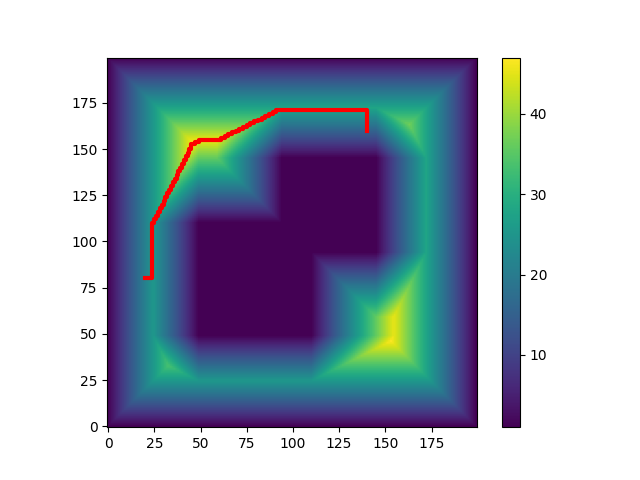
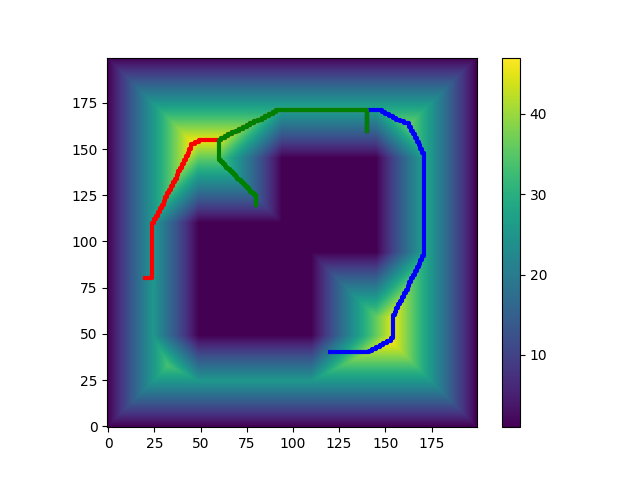
updated example4 to show paths for three start points, not just one

diff --git a/scripts/brushfire.py b/scripts/brushfire.py
@@ -343,35 +343,59 @@ class BrushfireGrid:
         _, path = self.calculate_paths(start, goal)
         return path
 
+    def _plot_pixel_paths(self, start: np.ndarray, goal: np.ndarray, ax):
+        if start.shape[0] > 1:
+            colors = ['r', 'b', 'g', 'm']
+            for i, start_ in enumerate(start):
+                path = self.calculate_pixel_path(start_, goal)
+                c = i % len(colors)
+                ax.plot(path[:, 0], path[:, 1], color=colors[c], lw=3)
+        else:
+            path = self.calculate_pixel_path(start, goal)
+            ax.plot(path[:, 0], path[:, 1], '-r', lw=3)
+
+    def _plot_real_paths(self, start: np.ndarray, goal: np.ndarray, ax):
+        if start.shape[0] > 1:
+            colors = ['r', 'b', 'g', 'm']
+            for i, start_ in enumerate(start):
+                path = self.calculate_real_path(start_, goal)
+                c = i % len(colors)
+                ax.plot(path[:, 0], path[:, 1], color=colors[c], lw=3)
+        else:
+            path = self.calculate_pixel_path(start, goal)
+            ax.plot(path[:, 0], path[:, 1], '-r', lw=3)
+
     def plot_path_on_distances(self, start: np.ndarray, goal: np.ndarray, ax=None, save: bool = False):
-        path = self.calculate_pixel_path(start, goal)
+        if len(start.shape) < 2:
+            start = start[np.newaxis]
+
         if ax is None:
             fig = plt.figure()
             ax = fig.add_subplot(1, 1, 1)
         self.plot_distances(ax=ax)
-        ax.plot(path[:, 0], path[:, 1], '-r', lw=3)
+        self._plot_pixel_paths(start, goal, ax)
         if save:
             plt.savefig(os.path.join(self._results_dir, 'PathOnBrushfire.png'))
 
     def plot_path_on_gvd(self, start: np.ndarray, goal: np.ndarray, ax=None, save: bool = False):
-        path = self.calculate_pixel_path(start, goal)
         if ax is None:
             fig = plt.figure()
             ax = fig.add_subplot(1, 1, 1)
         self.plot_voronoi_boundary(ax=ax)
-        ax.plot(path[:, 0], path[:, 1], '-r', lw=3)
+        self._plot_pixel_paths(start, goal, ax)
         if save:
             plt.savefig(os.path.join(self._results_dir, 'PathOnGVD.png'))
 
     def plot_path_on_real(self, start: np.ndarray, goal: np.ndarray, ax=None, save: bool = False):
-        path = self.calculate_real_path(start, goal)
         if ax is None:
             fig = plt.figure()
             ax = fig.add_subplot(1, 1, 1)
         for obstacle in self._obstacles:
             obstacle.plot(ax, color='r', lw=3)
-        ax.plot(path[:, 0], path[:, 1], '-b', lw=3)
+        self._plot_real_paths(start, goal, ax)
         ax.set_aspect('equal', 'box')
+        ax.set_xlim([0, 100])
+        ax.set_ylim([0, 100])
         if save:
             plt.savefig(os.path.join(self._results_dir, 'PathOnRealSpace.png'))
 
@@ -417,7 +441,7 @@ def example_4(resolution: int = 100, save: bool = False):
 
     grid_ = BrushfireGrid(resolution, [obstacle1, obstacle2], results_name='Example4')
 
-    start = np.array([10, 40])
+    start = np.array([[10, 40], [60, 20], [40, 60]])
     goal = np.array([70, 80])
 
     grid_.plot_path_on_distances(start, goal, save=save)
@@ -435,4 +459,5 @@ def run_examples(resolution: int = 100, save: bool = False):
 
 
 if __name__ == '__main__':
-    run_examples()
+    # run_examples()
+    example_4(resolution=200, save=True)
